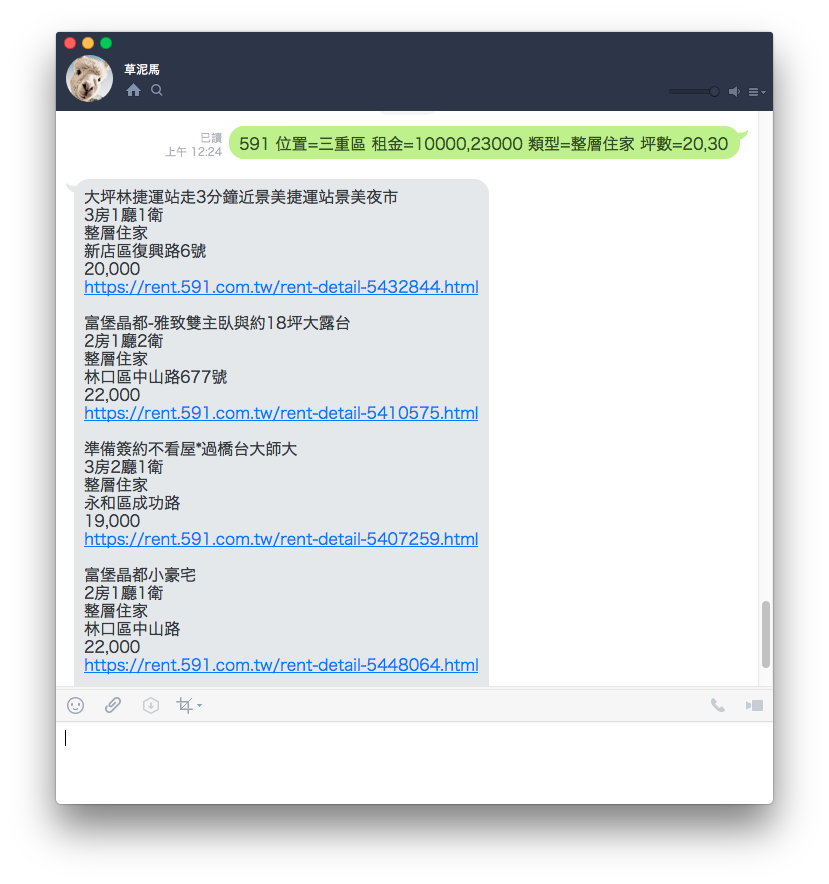
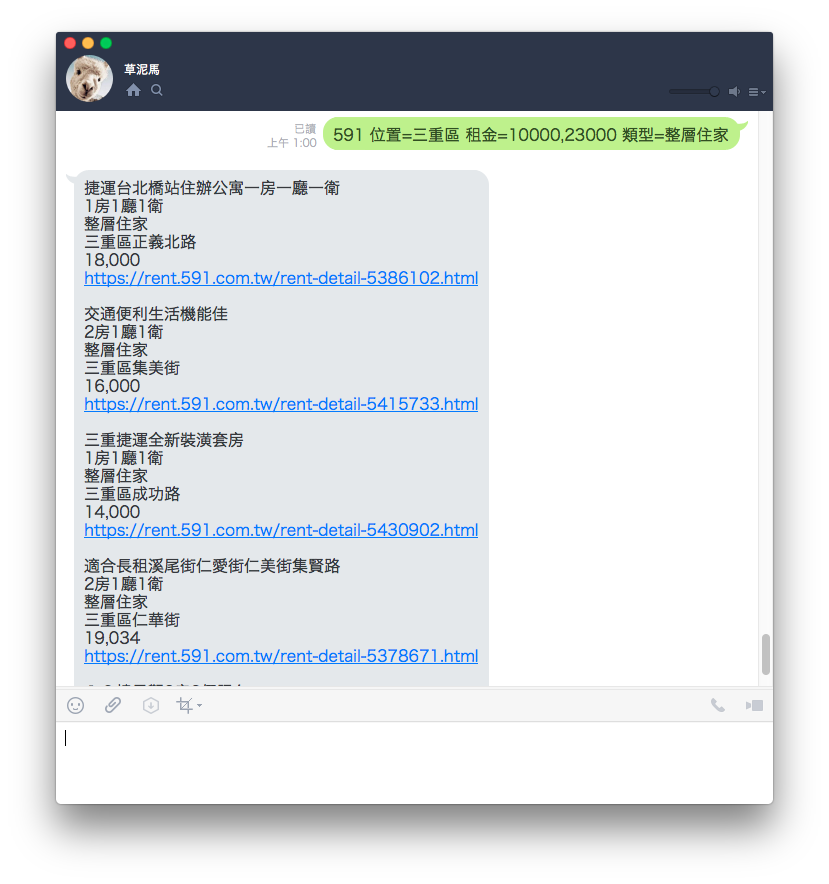
Update README

Changed region(s): [[0.0905, 0.1222, 0.9047, 0.7636], [0.9047, 0.6719, 0.9349, 0.733]]

diff --git a/README.md b/README.md
@@ -24,6 +24,6 @@ LINEID: @sgc9537d
 ```
 591 位置=新北市 類型=整層住家 坪數=20,30
 
-591 位置=新北市 租金=10000,23000 類型=整層住家 坪數=20,30
+591 位置=三重區 租金=10000,23000 類型=整層住家
 ```
 ![](./screenshot/1.png)
